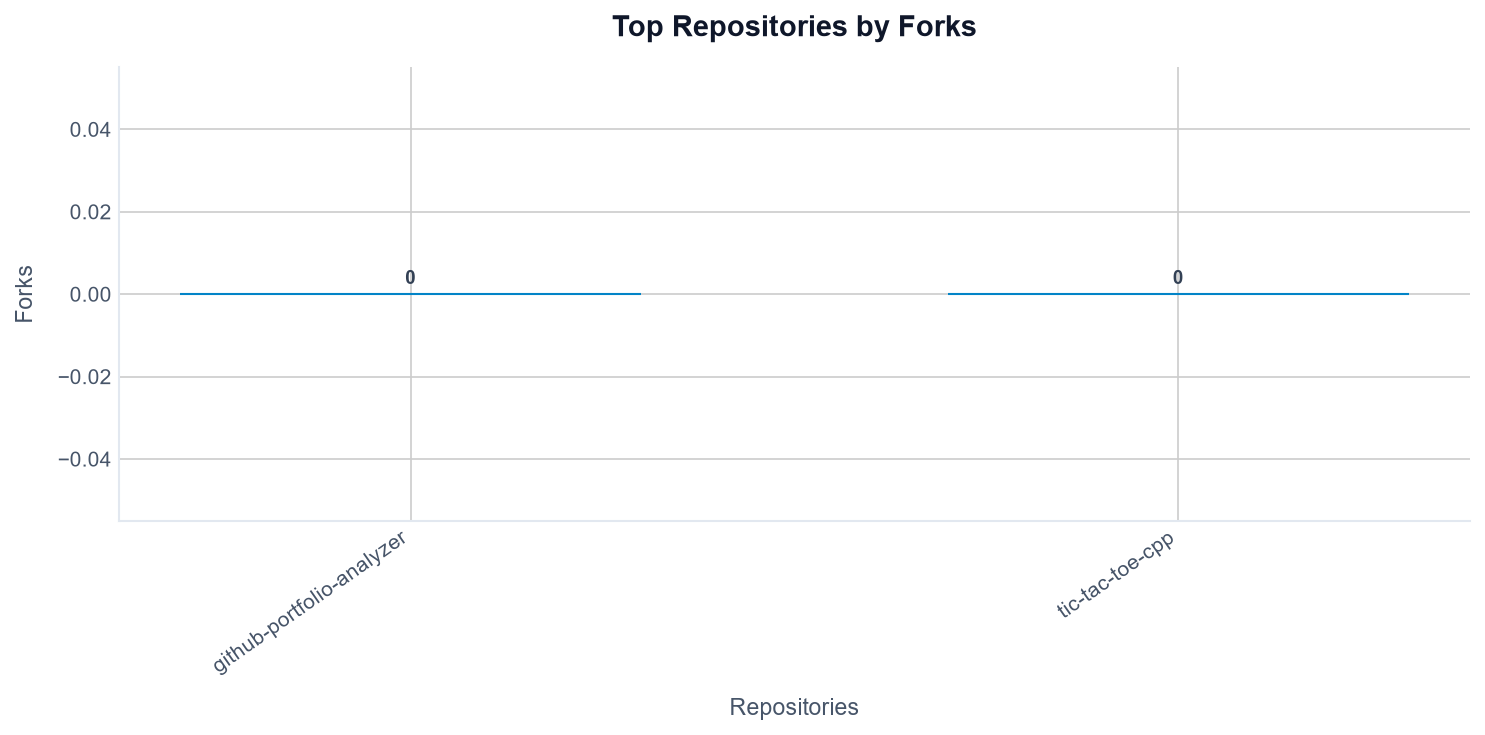
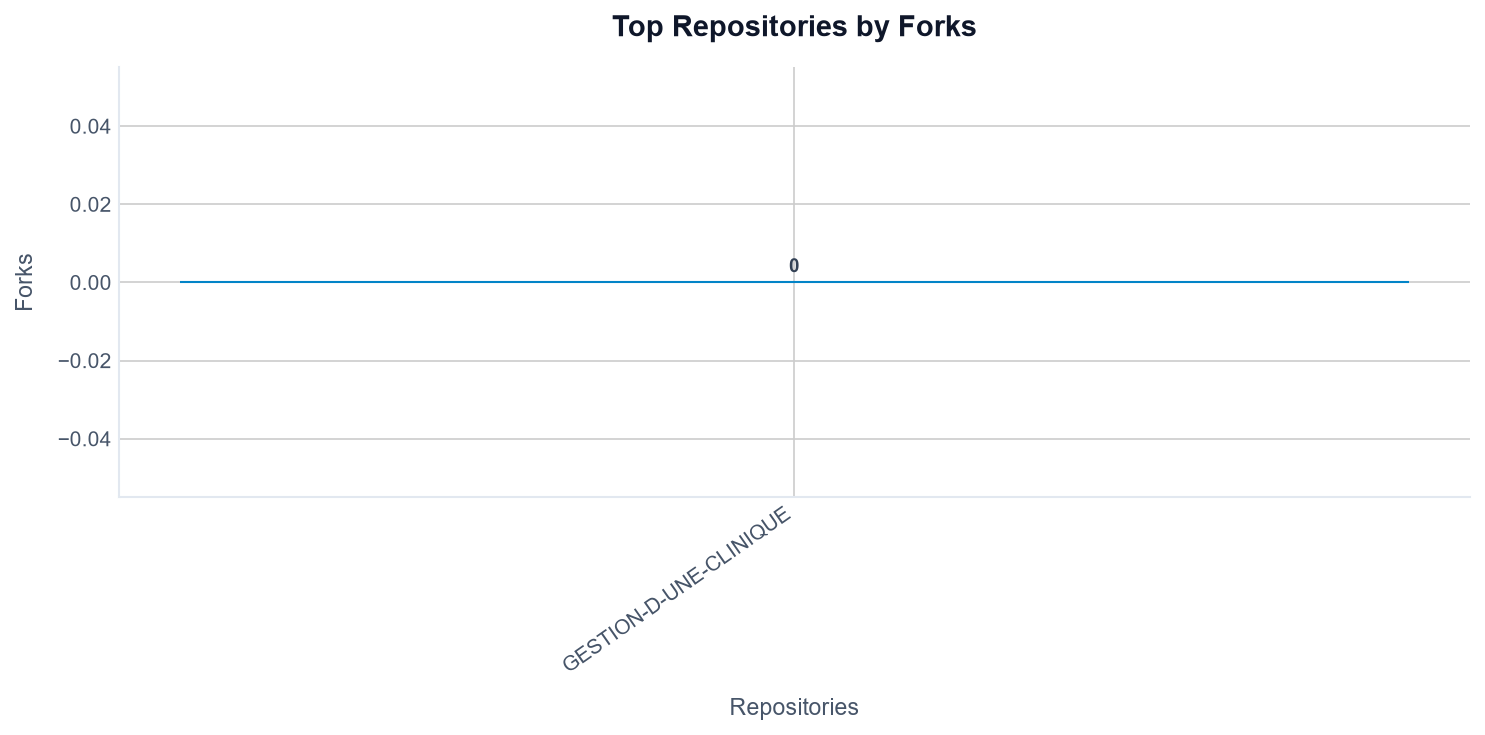
Version finale

diff --git a/README.md b/README.md
@@ -1,50 +1,88 @@
 # GitHub Portfolio Analyzer
 
-## Présentation
+## Description
 
-GitHub Portfolio Analyzer est une application développée en **Python** avec **Streamlit** permettant d'analyser un profil GitHub public. Elle récupère les données via l'API GitHub, génère des statistiques, calcule un score de portfolio et propose des visualisations interactives ainsi que des exports au format CSV et PDF.
+GitHub Portfolio Analyzer est une application développée en "Python" avec "Streamlit"permettant d'analyser un profil GitHub public à l'aide de l'API REST GitHub.
+
+L'application récupère les informations d'un utilisateur, analyse ses dépôts publics, calcule un score de portfolio, génère des statistiques détaillées, crée des visualisations interactives et permet l'export des résultats aux formats CSV et PDF. Les résultats peuvent être exportés aux formats "CSV" et "PDF".
 
 ---
 
 ## Fonctionnalités
 
+### Analyse du profil
+
 - Analyse d'un profil GitHub public
 - Récupération des informations utilisateur
-- Analyse des dépôts
+- Analyse complète des dépôts
 - Calcul d'un score de portfolio
-- Répartition des langages de programmation
+- Classement des dépôts les plus populaires
+
+### Statistiques
+
+- Nombre de dépôts publics
+- Nombre total d'étoiles
+- Nombre total de forks
+- Nombre de followers
+- Langage principal
+- Répartition des langages
+- Activité globale du profil
+
+### Visualisation
+
 - Graphiques interactifs avec Plotly
 - Graphiques statistiques avec Matplotlib
-- Export des données en CSV
+
+### Export
+
+- Export des données au format CSV
 - Génération d'un rapport PDF
-- Interface moderne avec Streamlit
-- Gestion des erreurs (utilisateur introuvable, limite API, erreurs réseau)
+
+### Gestion des erreurs
+
+- Utilisateur GitHub introuvable
+- Limite de requêtes de l'API GitHub
+- Erreurs réseau
+- Réponses API invalides
 
 ---
 
-
-## Architecture du projet
+## Architecture
 
 ```text
 github-portfolio-analyzer/
 │
 ├── api/
 │   └── github_api.py
+│
 ├── services/
 │   └── analyzer.py
+│
 ├── utils/
 │   ├── charts.py
 │   ├── plotly_charts.py
 │   └── pdf_generator.py
-├── assets/
+│
+├── images/
+│
 ├── app.py
+├── main.py
 ├── requirements.txt
 └── README.md
 ```
 
+### Description des dossiers
+
+| Dossier | Description |
+|----------|-------------|
+| **api** | Communication avec l'API GitHub |
+| **services** | Analyse des données et calcul du score |
+| **utils** | Génération des graphiques et du rapport PDF |
+| **images** | Images utilisées par l'application et le README |
+
 ---
 
-## Technologies
+## Technologies utilisées
 
 - Python
 - Streamlit
@@ -59,21 +97,47 @@ github-portfolio-analyzer/
 
 ## Installation
 
+### Cloner le projet
+
 ```bash
 git clone https://github.com/rayhanemokhtari2004-sudo/github-portfolio-analyzer.git
+```
 
+### Accéder au dossier
+
+```bash
 cd github-portfolio-analyzer
+```
 
+### Créer un environnement virtuel
+
+```bash
 python -m venv venv
+```
 
-# Windows
+### Activer l'environnement
+
+**Windows**
+
+```bash
 venv\Scripts\activate
+```
 
-# Linux / macOS
+**Linux / macOS**
+
+```bash
 source venv/bin/activate
+```
 
+### Installer les dépendances
+
+```bash
 pip install -r requirements.txt
+```
 
+### Lancer l'application
+
+```bash
 streamlit run app.py
 ```
 
@@ -81,47 +145,52 @@ streamlit run app.py
 
 ## Utilisation
 
-1. Lancez l'application.
-2. Saisissez un nom d'utilisateur GitHub.
-3. Cliquez sur **Analyser**.
-4. Consultez les statistiques et les graphiques.
-5. Téléchargez les résultats au format CSV ou PDF.
+1. Lancer l'application Streamlit.
+2. Entrer un nom d'utilisateur GitHub.
+3. Cliquer sur **Analyser**.
+4. Consulter les statistiques et les graphiques.
+5. Exporter les résultats au format CSV ou PDF.
 
 ---
 
 ## Calcul du score
 
-Le score du portfolio est calculé à partir de plusieurs indicateurs, notamment :
+Le score du portfolio est calculé à partir de plusieurs indicateurs :
 
-- Nombre de dépôts
-- Nombre d'étoiles
-- Nombre de forks
-- Nombre d'abonnés
-- Diversité des langages
+- Nombre de dépôts publics
+- Nombre total d'étoiles
+- Nombre total de forks
+- Nombre de followers
+- Diversité des langages utilisés
 - Activité globale du profil
+
+Le score obtenu fournit une estimation globale de la qualité et de l'activité du portfolio GitHub.
 
 ---
 
-## Exports
+## Rapport PDF
 
-### CSV
-
-- Dépôts
-- Langages
-- Étoiles
-- Forks
-- Visibilité
-- URL
-
-### PDF
+Le rapport généré contient :
 
 - Informations du profil
-- Statistiques
+- Statistiques principales
 - Score du portfolio
 - Répartition des langages
-- Top dépôts
+- Dépôts les plus populaires
 - Date de génération
 
 ---
 
+## Export CSV
 
+Le fichier CSV contient notamment :
+
+- Nom du dépôt
+- Description
+- Langage
+- Nombre d'étoiles
+- Nombre de forks
+- Visibilité
+- URL du dépôt
+
+---
